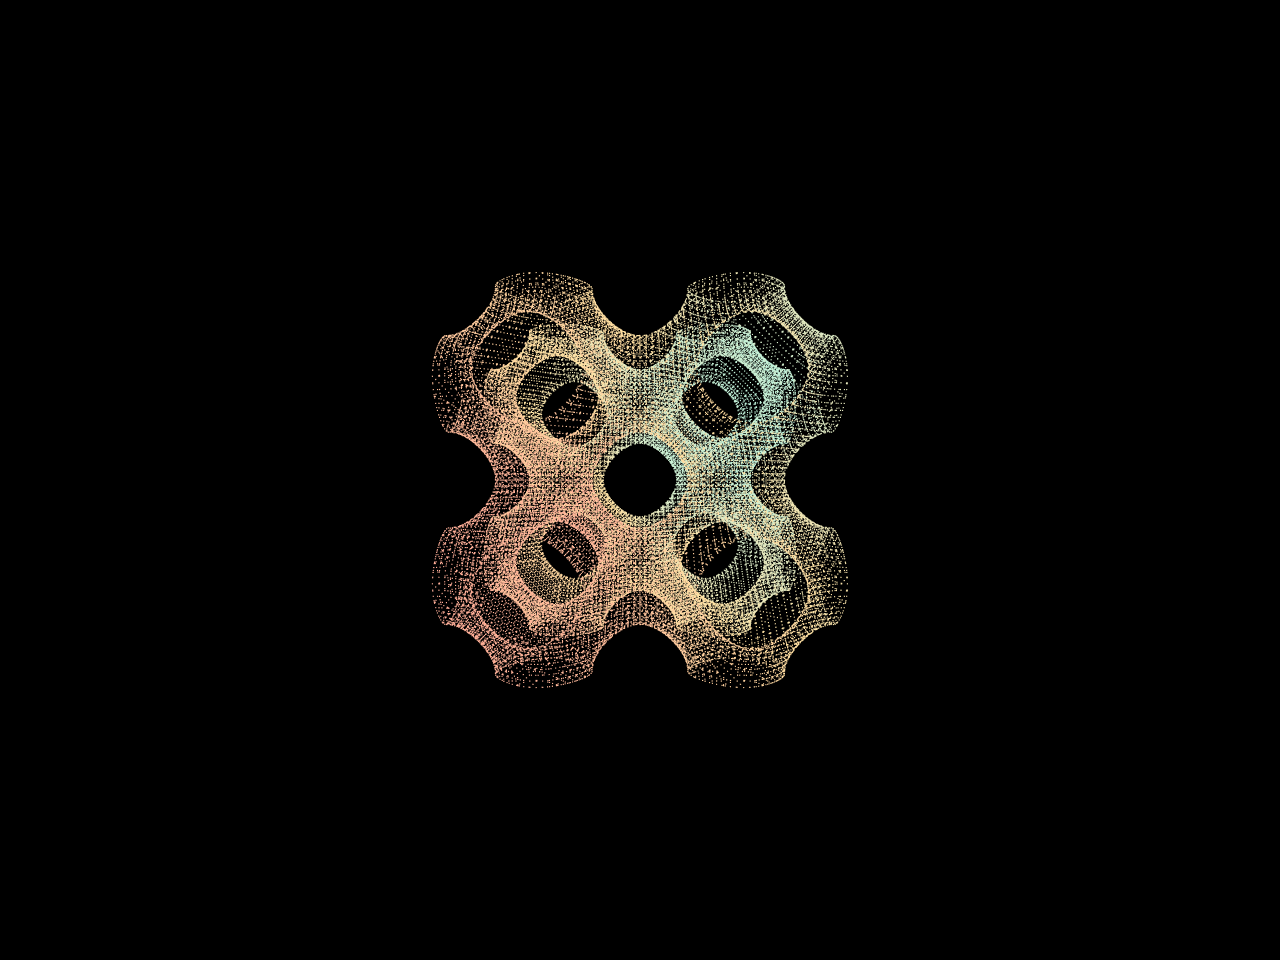
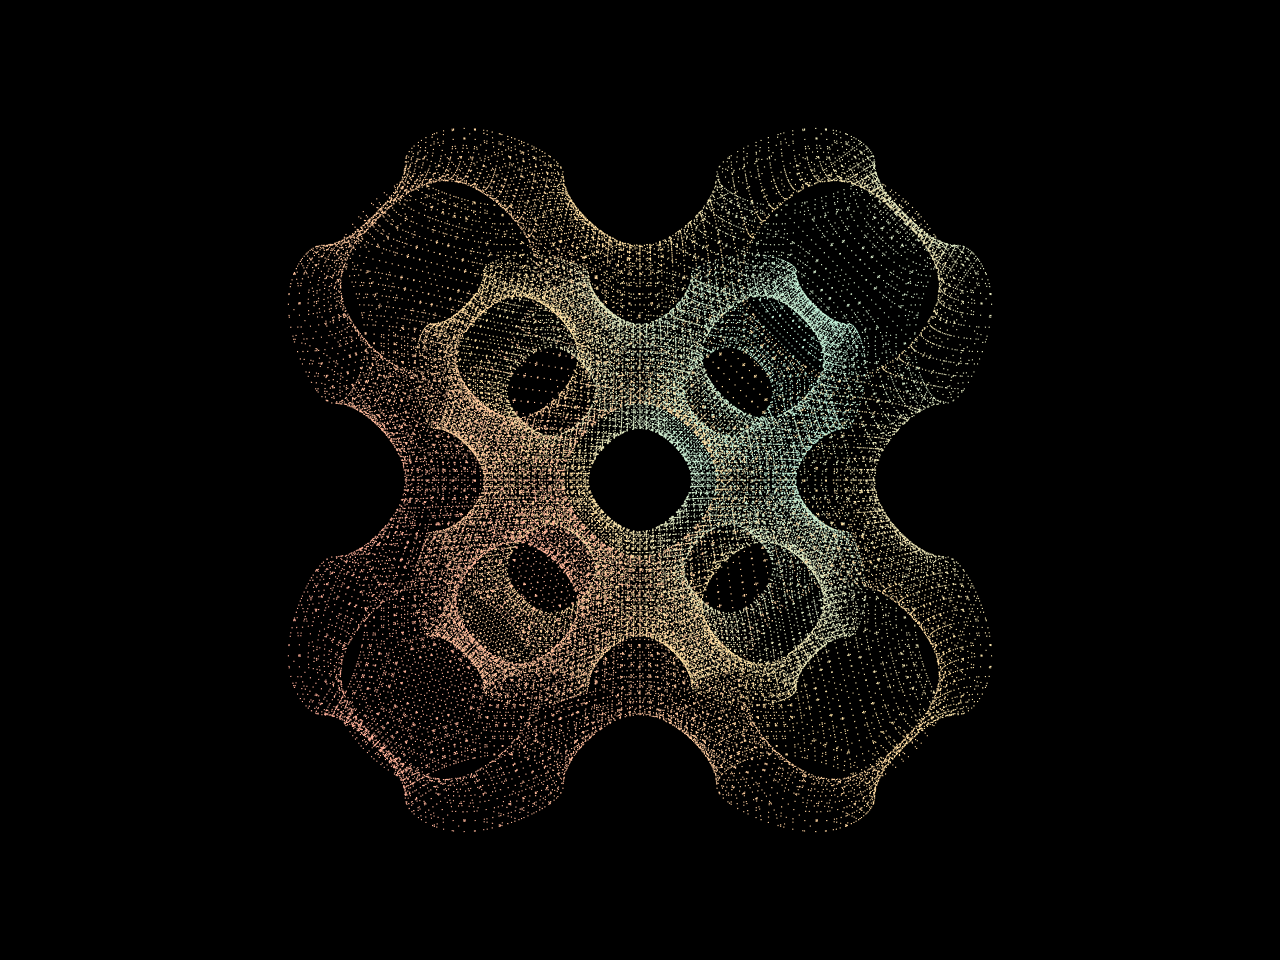
Tighten gyroid/Schwarz default camera.

Changed region(s): [[0.2188, 0.1562, 0.7812, 0.8438]]

diff --git a/packages/frontend/src/pages/misc/schwarz_p.tsx b/packages/frontend/src/pages/misc/schwarz_p.tsx
@@ -75,7 +75,7 @@ const SchwarzP = () => {
 			numParticles={SCHWARZ_MAX_POINTS}
 			pointSize={1.15}
 			tick={tick}
-			cameraPosition={[0, 0, 3.2]}
+			cameraPosition={[0, 0, 2.15]}
 			autoRotate={!isScreenshotMode()}
 			autoRotateSpeed={0.28}
 		/>

diff --git a/packages/frontend/src/pages/misc/gyroid.tsx b/packages/frontend/src/pages/misc/gyroid.tsx
@@ -75,7 +75,7 @@ const Gyroid = () => {
 			numParticles={GYROID_MAX_POINTS}
 			pointSize={1.15}
 			tick={tick}
-			cameraPosition={[0, 0, 3.2]}
+			cameraPosition={[0, 0, 2.15]}
 			autoRotate={!isScreenshotMode()}
 			autoRotateSpeed={0.28}
 		/>
